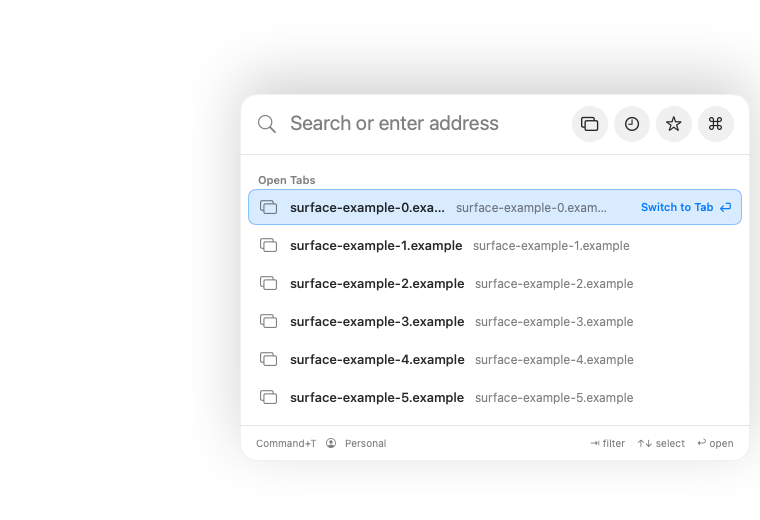
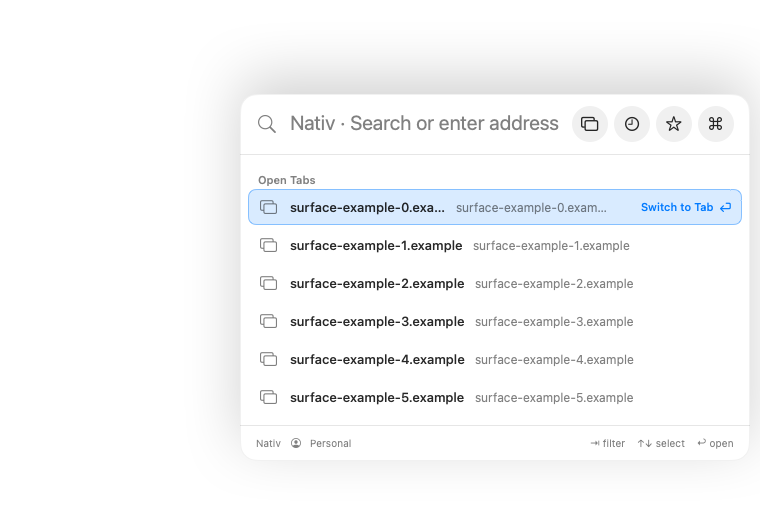
feat(command): name launcher Nativ (Fixes #1056)

Changed region(s): [[0.3632, 0.2154, 0.7566, 0.2462], [0.3329, 0.8308, 0.5145, 0.8615]]

diff --git a/website/src/components/demo.ts b/website/src/components/demo.ts
@@ -6,6 +6,7 @@
 // Command-T from the address, and open the site controls. Page content is a real capture of
 // each site. Behavior lives in src/demo.ts; without JavaScript the first Space shows statically.
 
+import { commandInterfaceName } from "../content";
 import { escapeHtml } from "../html";
 
 export interface DemoTab {
@@ -99,8 +100,8 @@ function siteControls(): string {
 }
 
 function launcher(): string {
-  return `<div class="demo-launcher" role="dialog" aria-label="Command-T" hidden>
-    <label class="demo-launcher-field">${icon.search}<input type="text" placeholder="Search tabs or enter an address" autocomplete="off" spellcheck="false" aria-label="Search tabs or enter an address"></label>
+  return `<div class="demo-launcher" role="dialog" aria-label="${commandInterfaceName}" hidden>
+    <label class="demo-launcher-field">${icon.search}<input type="text" placeholder="Search with ${commandInterfaceName} or enter an address" autocomplete="off" spellcheck="false" aria-label="Search with ${commandInterfaceName} or enter an address"></label>
     <ul class="demo-results" role="listbox"></ul>
   </div>`;
 }
@@ -122,13 +123,13 @@ export function ShaarDemo(): string {
       <div class="demo-main">
         <div class="demo-toolbar">
           <span class="demo-icon" aria-hidden="true">${icon.back}</span><span class="demo-icon" aria-hidden="true">${icon.forward}</span><span class="demo-icon" aria-hidden="true">${icon.reload}</span>
-          <button type="button" class="demo-address" data-launcher aria-label="Open Command-T">${icon.lock}<span data-host>arcusis.com</span></button>
+          <button type="button" class="demo-address" data-launcher aria-label="Open ${commandInterfaceName}">${icon.lock}<span data-host>arcusis.com</span></button>
           <button type="button" class="demo-icon demo-controls-button" data-controls aria-label="Site controls" aria-expanded="false">${icon.sliders}</button>
         </div>
         <div class="demo-page">${pages()}</div>
         ${launcher()}${siteControls()}
       </div>
     </div>
-    <p class="demo-hint">This is a working copy of Shaar. Click a tab, switch Spaces with the dots, or click the address to open Command-T.</p>
+    <p class="demo-hint">This is a working copy of Shaar. Click a tab, switch Spaces with the dots, or click the address to open ${commandInterfaceName}.</p>
   </div>`;
 }

diff --git a/website/src/components/home.ts b/website/src/components/home.ts
@@ -2,7 +2,7 @@
 // License, v. 2.0. If a copy of the MPL was not distributed with this
 // file, You can obtain one at https://mozilla.org/MPL/2.0/.
 
-import { release, repository, type SitePage, screens } from "../content";
+import { commandInterfaceName, release, repository, type SitePage, screens } from "../content";
 import { escapeHtml } from "../html";
 import { ShaarDemo } from "./demo";
 import { Landscape, SkyControl } from "./landscape";
@@ -58,7 +58,7 @@ const steps: Step[] = [
   {
     id: "step-launcher",
     screen: "launcher",
-    title: "Command-T finds tabs, pages and commands",
+    title: `${commandInterfaceName} finds tabs, pages and commands`,
     body: "Type to search open tabs, history, bookmarks and browser actions. Arrow keys pick a result and Return opens it.",
     keys: ["⌘", "T"],
   },
@@ -93,7 +93,7 @@ function Story(): string {
     )
     .join("");
   return `<section class="story" id="spaces" aria-labelledby="story-title">
-    <header class="section-head"><h2 id="story-title">Tabs, accounts and pages, each in its place</h2><p>Spaces hold your tabs, profiles hold your accounts, and Command-T finds any page.</p></header>
+    <header class="section-head"><h2 id="story-title">Tabs, accounts and pages, each in its place</h2><p>Spaces hold your tabs, profiles hold your accounts, and ${commandInterfaceName} finds any page.</p></header>
     <div class="story-grid" data-active="0"><div class="story-steps">${steps.map(StepCopy).join("")}</div><div class="story-stage" aria-hidden="true"><div class="story-sticky">${shots}</div></div></div>
   </section>`;
 }
@@ -116,8 +116,7 @@ export function HomePage(): string {
   const page: SitePage = {
     path: "/",
     title: "Shaar · Your gateway to the web",
-    description:
-      "Shaar is a Mac browser built on Chromium with Spaces, separate profiles and a Command-T launcher. Free and open source, in public beta.",
+    description: `Shaar is a Mac browser built on Chromium with Spaces, separate profiles and ${commandInterfaceName} search. Free and open source, in public beta.`,
     heading: "",
     body: "",
   };

diff --git a/Sources/ArcusisBrowser/CommandPanel.swift b/Sources/ArcusisBrowser/CommandPanel.swift
@@ -7,7 +7,14 @@ import BrowserCore
 import SwiftUI
 
 struct CommandPanel: View {
-  static let displayName = "Command+T"
+  static let displayName = "Nativ"
+  static var localizedDisplayName: String { ShellL10n.string(displayName) }
+  static var searchPrompt: String {
+    "\(localizedDisplayName) · \(ShellL10n.string("Search or enter address"))"
+  }
+  static var accessibilityDescription: String {
+    "\(localizedDisplayName). \(ShellL10n.string("Search tabs, spaces, or the web"))"
+  }
   @Bindable var store: BrowserStore
   let resultsHeight: CGFloat
   @Environment(\.accessibilityReduceMotion) private var reduceMotion
@@ -104,7 +111,7 @@ struct CommandPanel: View {
       return .handled
     }
     .onExitCommand { store.dismissCommand() }
-    .accessibilityLabel(ShellL10n.string("Search tabs, spaces, or the web"))
+    .accessibilityLabel(Self.accessibilityDescription)
   }
 
   private var searchRow: some View {
@@ -112,7 +119,7 @@ struct CommandPanel: View {
       Image(systemName: "magnifyingglass")
         .font(.system(size: 19, weight: .light))
         .foregroundStyle(.secondary)
-      TextField(ShellL10n.string("Search or enter address"), text: $store.commandQuery)
+      TextField(Self.searchPrompt, text: $store.commandQuery)
         .textFieldStyle(.plain)
         .font(.system(size: 20))
         .focused($searchIsFocused)
@@ -229,7 +236,7 @@ struct CommandPanel: View {
 
   private var footer: some View {
     HStack {
-      Text(Self.displayName)
+      Text(Self.localizedDisplayName)
       Label(store.profileName, systemImage: "person.crop.circle")
       Spacer()
       ShellL10n.text("⇥ filter    ↑↓ select    ↩ open")

diff --git a/website/src/content.ts b/website/src/content.ts
@@ -5,6 +5,7 @@
 export const repository = "https://github.com/arcusis/shaar";
 export const siteOrigin = "https://shaar.arcusis.com";
 export const appcast = "https://arcusis.github.io/shaar/appcast.xml";
+export const commandInterfaceName = "Nativ";
 
 // Published release snapshot. Update alongside a published release, not an unreleased version bump.
 export const release = {
@@ -17,7 +18,7 @@ export const release = {
   zip: `${repository}/releases/download/v0.1.0/Shaar-0.1.0-macos.zip`,
   highlights: [
     "Spaces and profiles with separate sign-ins, profile colors and step-by-step onboarding for Google and Microsoft accounts, including work accounts.",
-    "Command-T launcher with suggestions, filters and actions.",
+    `${commandInterfaceName} search with suggestions, filters and actions.`,
     "Clean links: Command-Shift-C copies the current link without tracking parameters.",
     "Chrome Web Store extensions, managed per profile.",
     "Search engines per profile, private windows and a Library for downloads.",
@@ -51,7 +52,7 @@ export const screens = {
     file: "command-t.png",
     width: 2880,
     height: 1920,
-    alt: "Command-T launcher searching for freight across history, open tabs and Spaces",
+    alt: `${commandInterfaceName} searching for freight across history, open tabs and Spaces`,
   },
   siteControls: {
     file: "site-controls.png",

diff --git a/Sources/ArcusisBrowser/PageAddressField.swift b/Sources/ArcusisBrowser/PageAddressField.swift
@@ -18,17 +18,18 @@ struct PageAddressField: View {
   }
 
   static func accessibilityLabel(for url: URL?) -> String {
-    guard let url else { return ShellL10n.string("Search or enter address") }
-    return ShellL10n.format(
+    guard let url else { return CommandPanel.searchPrompt }
+    let address = ShellL10n.format(
       "Current address: %@. Search or enter address",
       arguments: [.string(url.absoluteString)])
+    return "\(CommandPanel.localizedDisplayName). \(address)"
   }
 
   private func displayAddress(for url: URL?) -> String {
     if developmentModeEnabled, let url, DevelopmentPage.detect(url: url).isDevelopmentPage {
       return url.absoluteString
     }
-    return Self.displayAddress(for: url) ?? ShellL10n.string("Search or enter address")
+    return Self.displayAddress(for: url) ?? CommandPanel.searchPrompt
   }
 
   var body: some View {
@@ -53,6 +54,6 @@ struct PageAddressField: View {
     }
     .accessibilityLabel(Self.accessibilityLabel(for: url))
     .browserChromeControl("browser.chrome.address")
-    .help(url?.absoluteString ?? ShellL10n.string("Search or enter address"))
+    .help(url?.absoluteString ?? CommandPanel.searchPrompt)
   }
 }

diff --git a/Tests/BrowserAppTests/NativeMenuStructureTests.swift b/Tests/BrowserAppTests/NativeMenuStructureTests.swift
@@ -103,7 +103,7 @@ import Testing
   #expect(item("New Private Window")?.keyEquivalent == "n")
   #expect(item("New Private Window")?.keyEquivalentModifierMask == [.command, .shift])
   #expect(item("New tab")?.keyEquivalent == "t")
-  #expect(item("Search or enter address")?.keyEquivalent == "l")
+  #expect(item(CommandPanel.searchPrompt)?.keyEquivalent == "l")
   #expect(item("Close tab")?.keyEquivalentModifierMask == .command)
   #expect(item("Close window")?.keyEquivalentModifierMask == [.command, .shift])
   #expect(item("Find in Page…")?.keyEquivalent == "f")

diff --git a/Tests/BrowserCoreTests/BrowserLocalizationTests.swift b/Tests/BrowserCoreTests/BrowserLocalizationTests.swift
@@ -59,6 +59,11 @@ import Testing
   #expect(restored.spaces.map(\.name) == ["Personal", "Work"])
 }
 
+@Test func nativHasItsHebrewDisplayName() {
+  #expect(BrowserLocalization.string("Nativ", table: "Shell", language: .english) == "Nativ")
+  #expect(BrowserLocalization.string("Nativ", table: "Shell", language: .hebrew) == "נתיב")
+}
+
 @Test func languageResolverHonorsOverridesAliasesAndUnsupportedPreferences() {
   #expect(
     BrowserLanguage.resolve(selection: .systemDefault, preferredLanguages: ["he-IL", "en-US"])

diff --git a/Sources/ArcusisBrowser/NativeBrowserHost.swift b/Sources/ArcusisBrowser/NativeBrowserHost.swift
@@ -1180,7 +1180,7 @@ final class NativeBrowserHost: NSObject, NSMenuItemValidation, NSMenuDelegate {
     add(.newPrivateWindow, "New Private Window", to: file)
     add(.newMiniWindow, "New Mini Window", to: file)
     add(.newTab, "New tab", to: file)
-    add(.search, "Search or enter address", to: file)
+    add(.search, CommandPanel.searchPrompt, to: file)
     add(.sharePage, "Share Page…", to: file)
     add(.downloads, "Downloads", to: file)
     add(.closeWindow, "Close window", to: file)

diff --git a/Sources/ArcusisBrowser/ArcusisBrowser.swift b/Sources/ArcusisBrowser/ArcusisBrowser.swift
@@ -366,7 +366,7 @@ private struct BrowserApplication: App {
       SpaceCommands(store: store)
       CommandGroup(replacing: .newItem) {
         Button(ShellL10n.string("New tab")) { store.showCommand() }.keyboardShortcut("t")
-        Button(ShellL10n.string("Search or enter address")) {
+        Button(CommandPanel.searchPrompt) {
           store.showCommand()
           store.commandEditsCurrentURL = true
           store.commandQuery = store.session.selectedPage?.tab.url.absoluteString ?? ""

diff --git a/Tests/BrowserAppTests/PageChromeLayoutTests.swift b/Tests/BrowserAppTests/PageChromeLayoutTests.swift
@@ -24,7 +24,9 @@ final class PageChromeLayoutTests: XCTestCase {
     XCTAssertNotEqual(label, PageAddressField.accessibilityLabel(for: nil))
     XCTAssertEqual(
       PageAddressField.accessibilityLabel(for: nil),
-      ShellL10n.string("Search or enter address"))
+      CommandPanel.searchPrompt)
+    XCTAssertEqual(CommandPanel.displayName, "Nativ")
+    XCTAssertTrue(label.contains(CommandPanel.localizedDisplayName))
   }
 
   func testPageCardUsesArcInsetsAndCornerRadius() {

diff --git a/Sources/ArcusisBrowser/BrowserWindow.swift b/Sources/ArcusisBrowser/BrowserWindow.swift
@@ -244,7 +244,7 @@ struct BrowserWindow: View {
             } label: {
               HStack {
                 Image(systemName: "magnifyingglass")
-                ShellL10n.text("Search or enter address")
+                Text(CommandPanel.searchPrompt)
                 Spacer(minLength: 40)
                 ShellL10n.text("⌘T").foregroundStyle(.tertiary)
               }

diff --git a/Sources/ArcusisBrowser/PrivateStartPage.swift b/Sources/ArcusisBrowser/PrivateStartPage.swift
@@ -67,7 +67,7 @@ struct PrivateStartPage: View {
         } label: {
           HStack {
             Image(systemName: "magnifyingglass")
-            ShellL10n.text("Search or enter address")
+            Text(CommandPanel.searchPrompt)
             Spacer(minLength: 40)
             ShellL10n.text("⌘T").foregroundStyle(.tertiary)
           }
